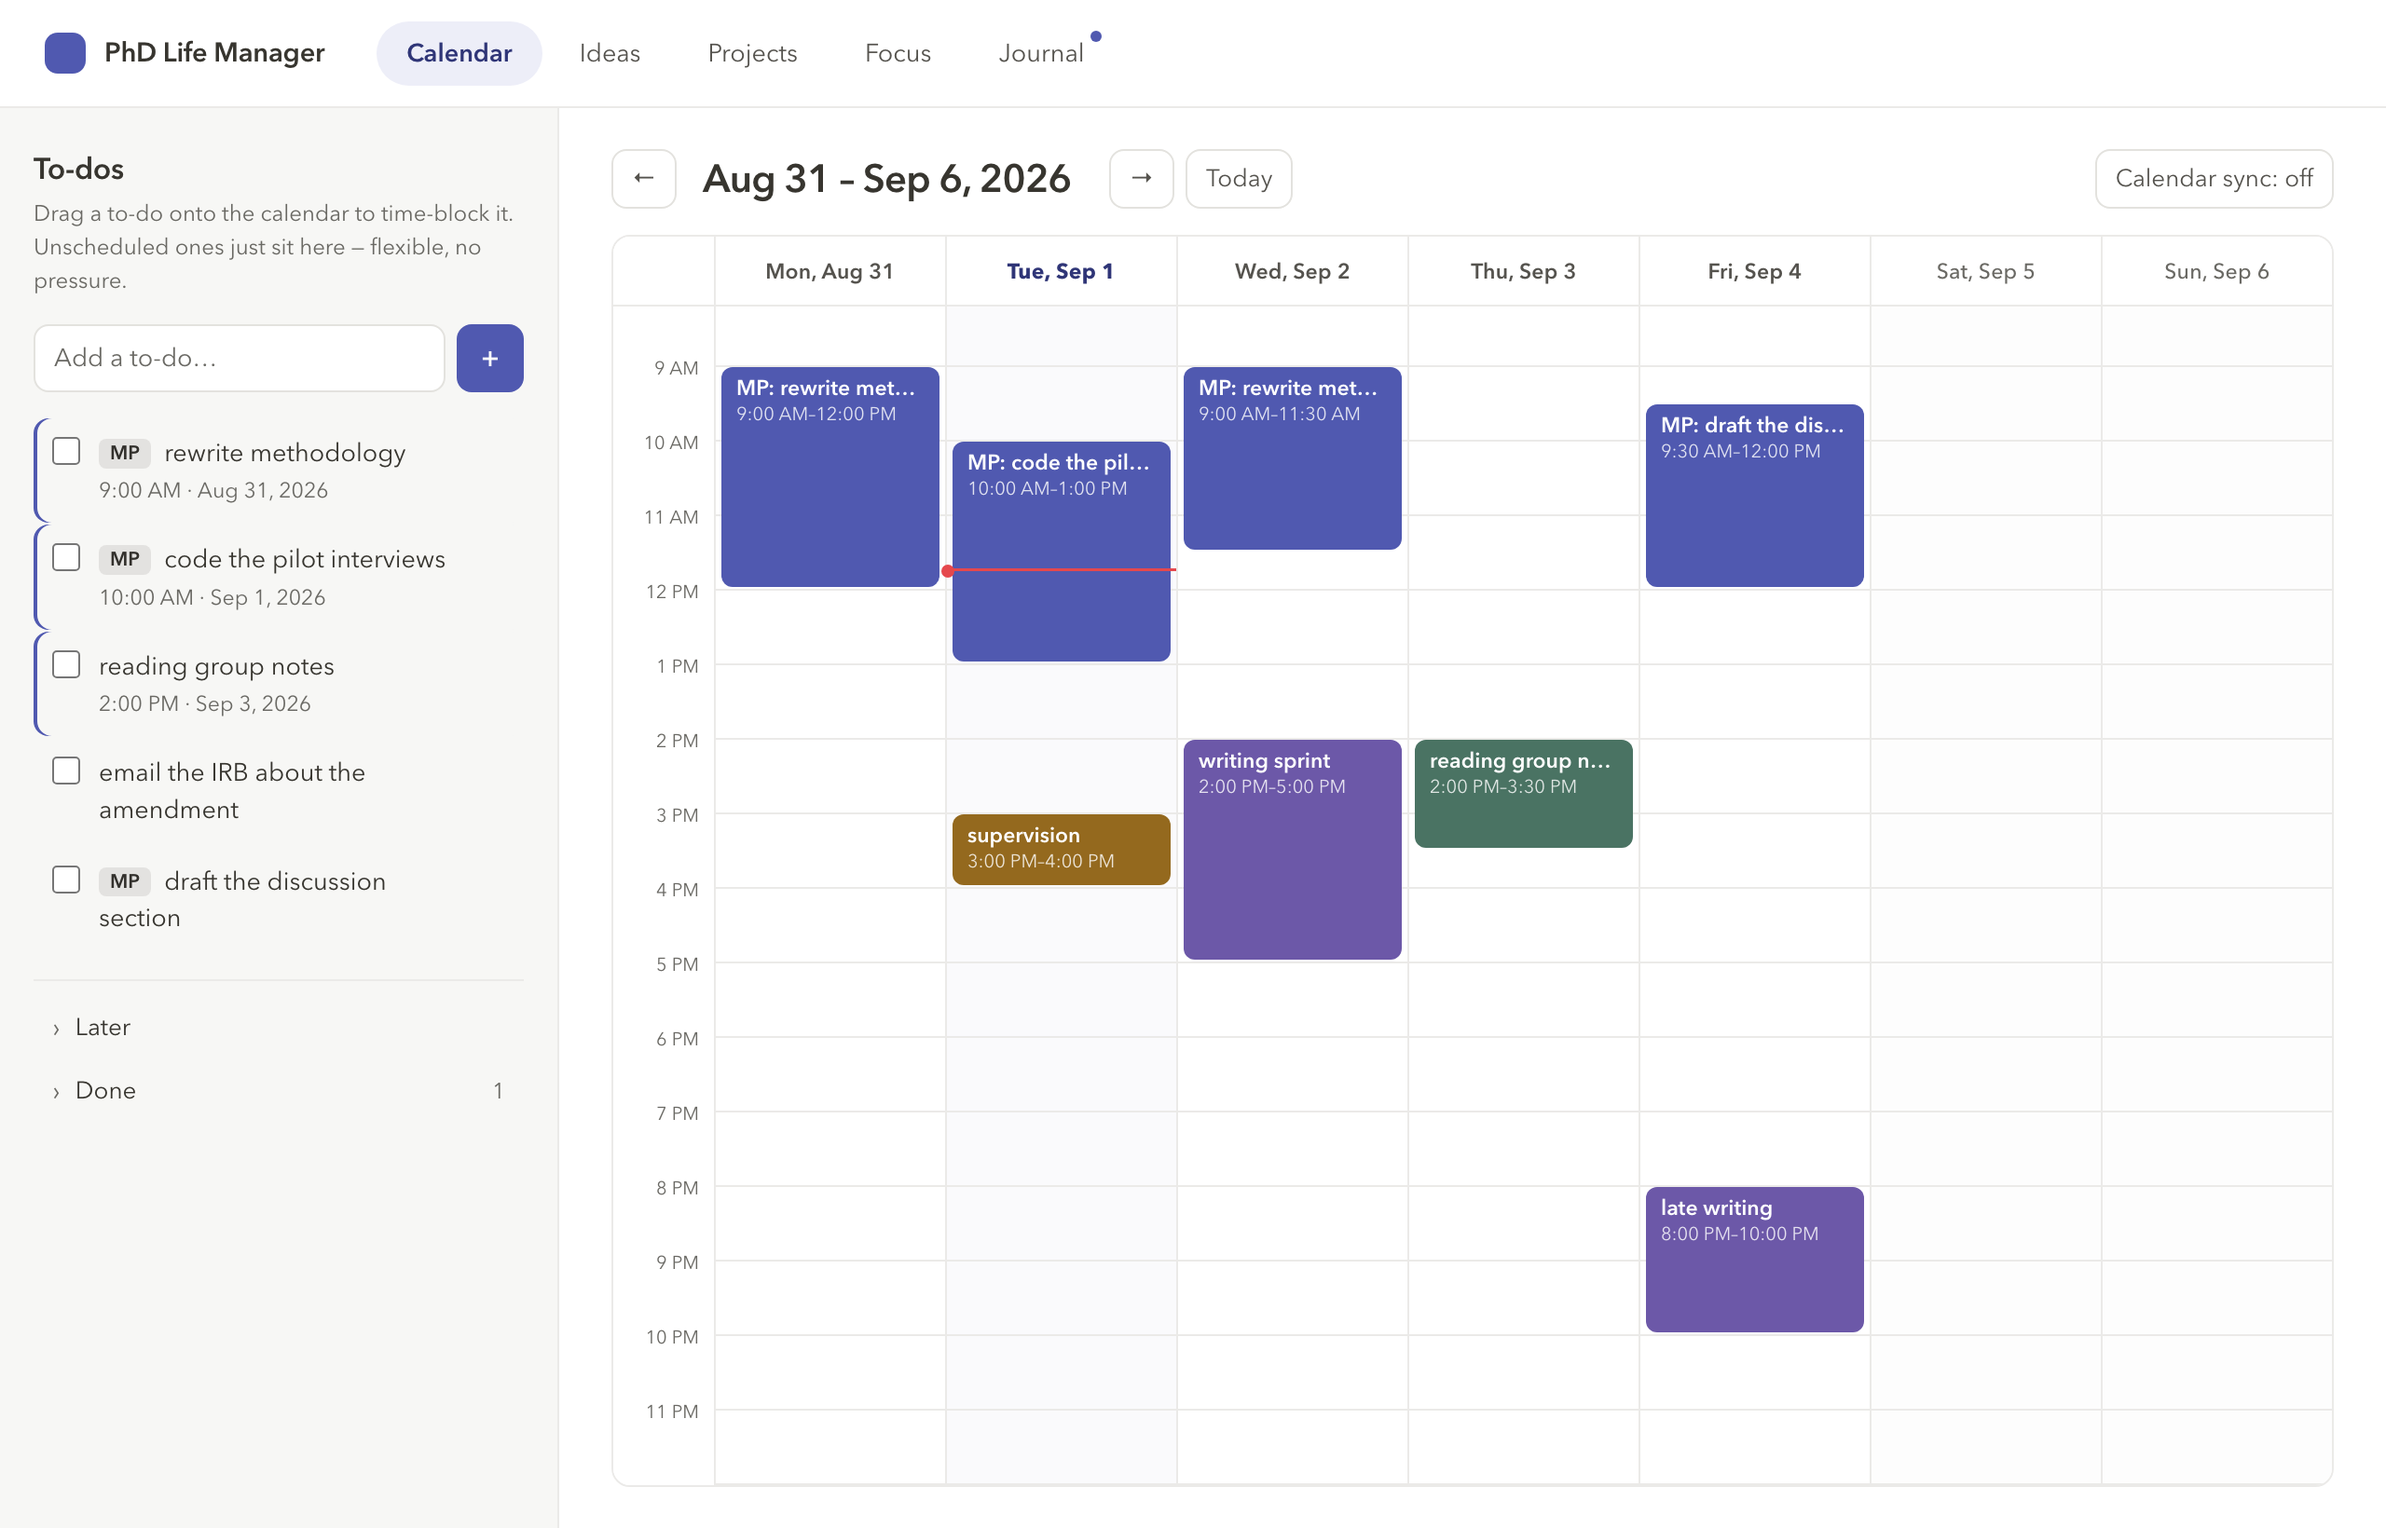
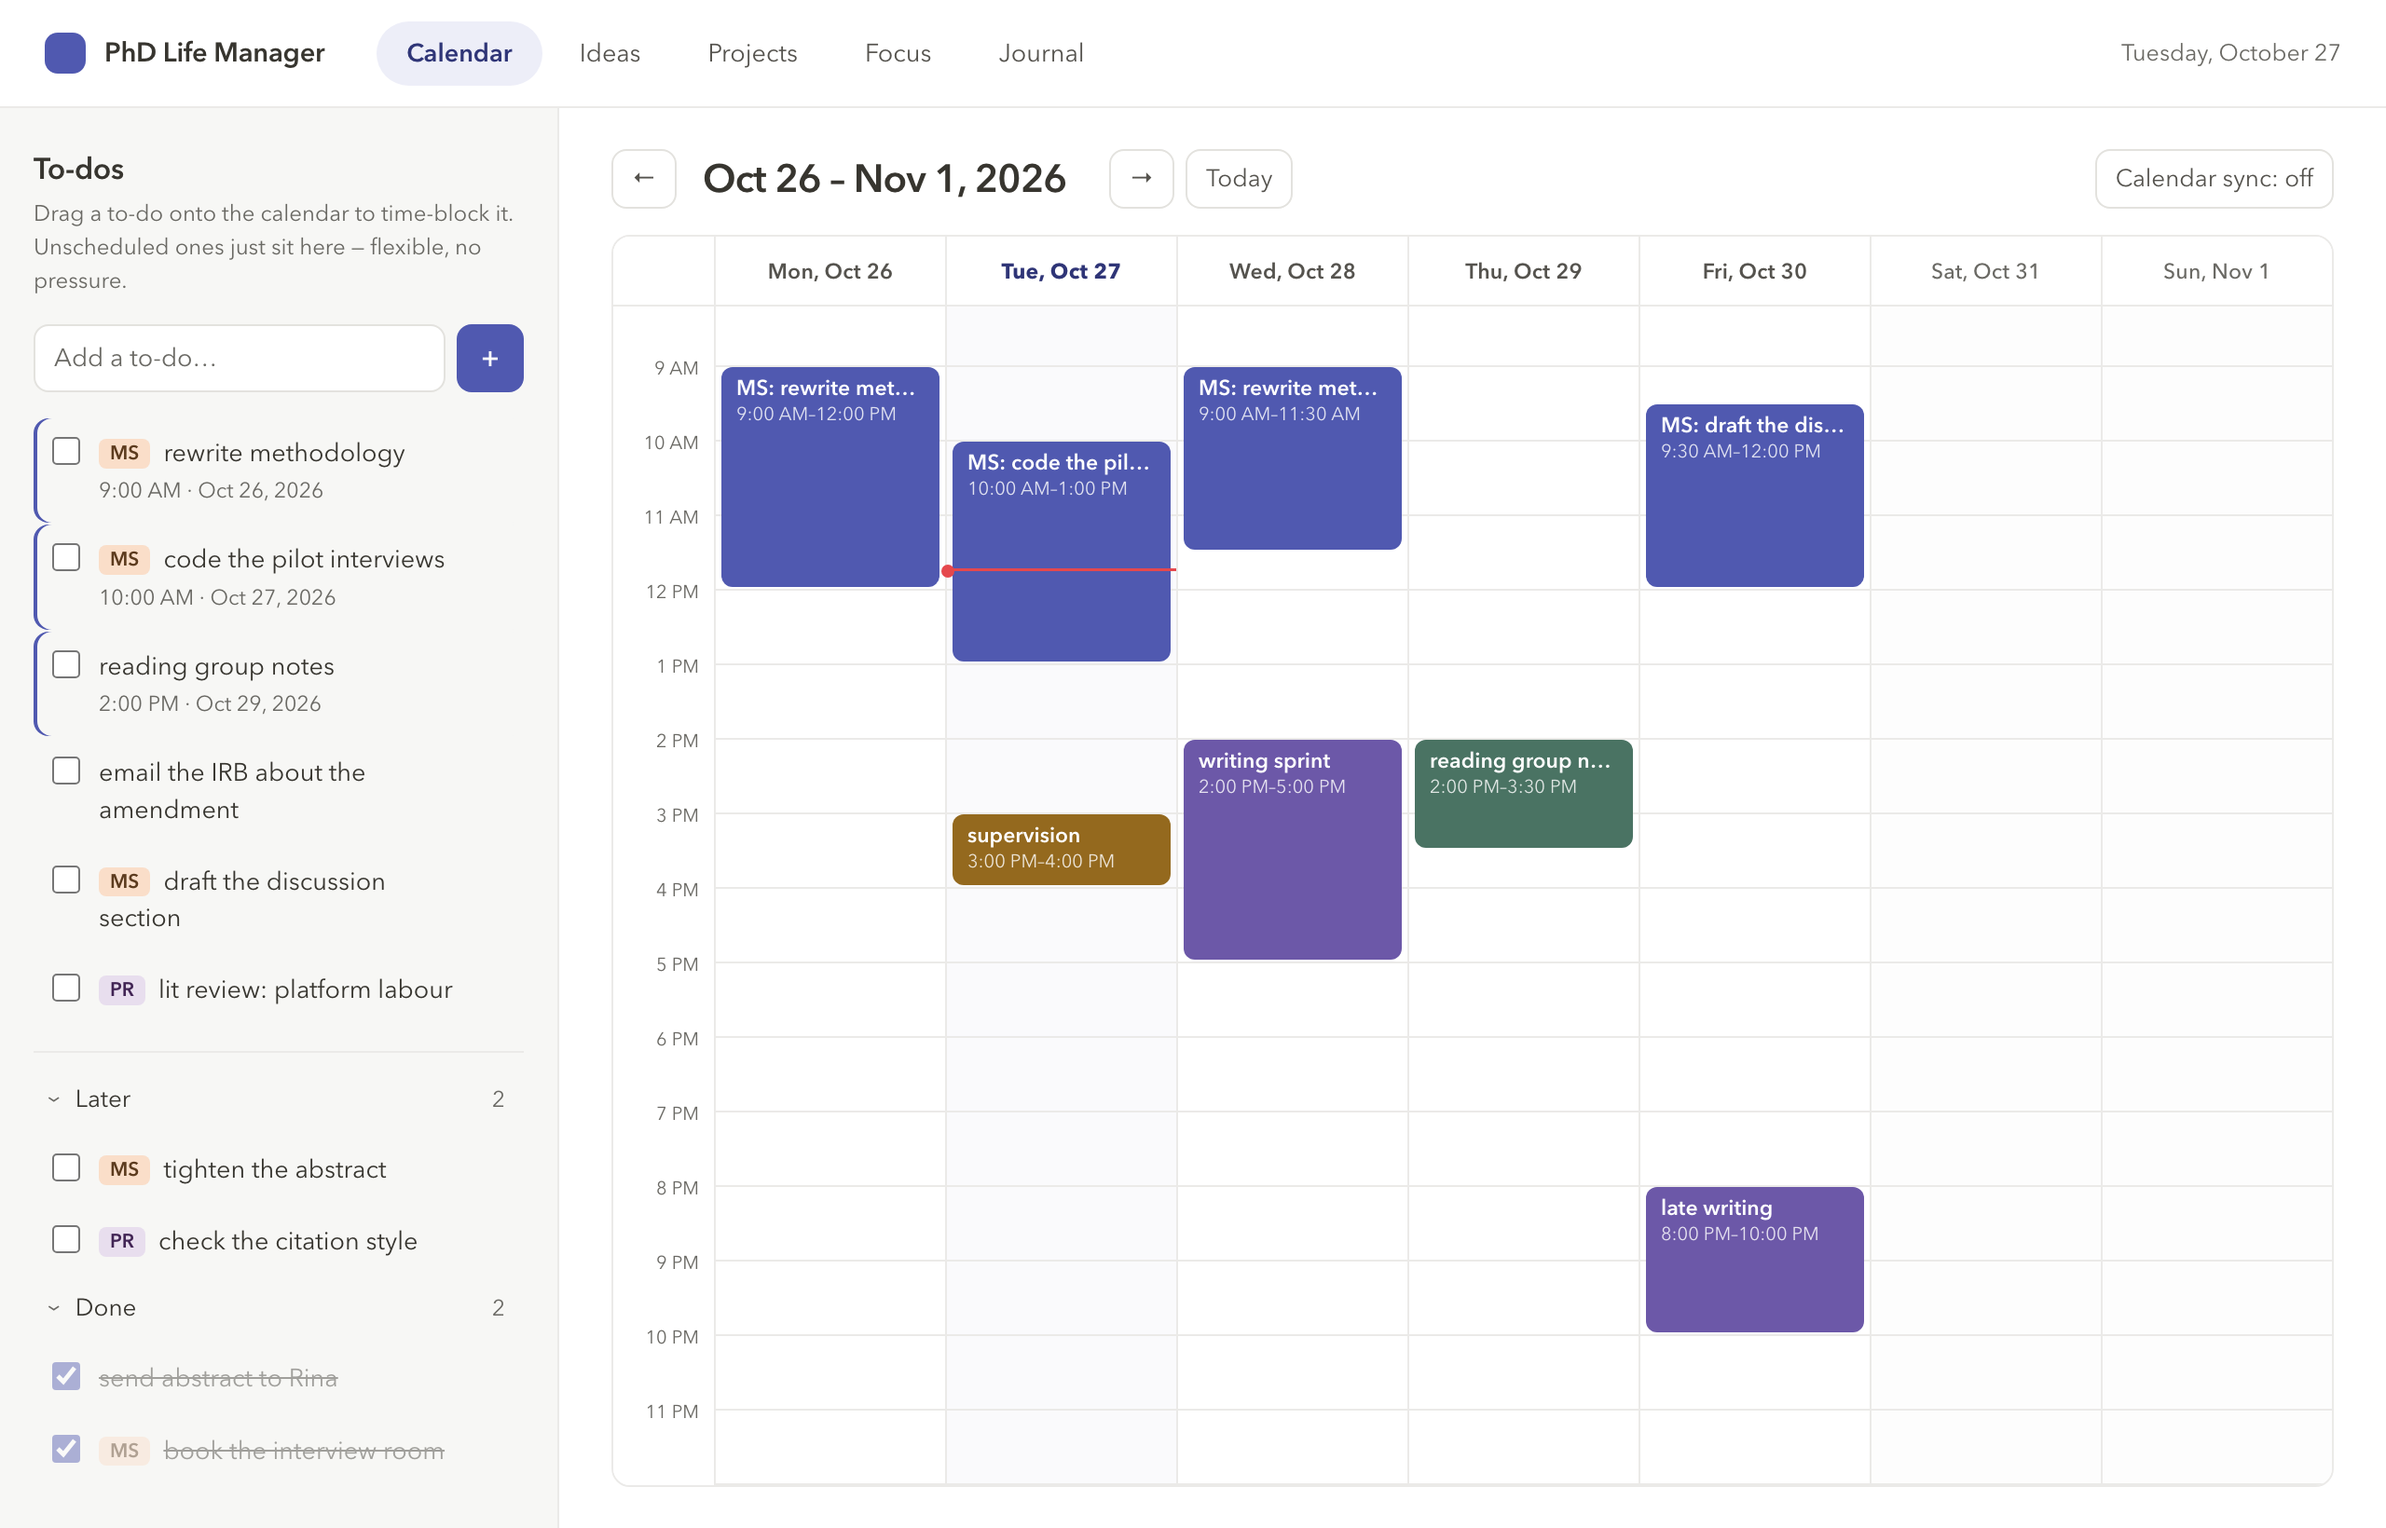
README: a look at every page, two to a row
The calendar stays as the lead picture, now with the Later and Done folds
open. Under it, a two-column grid: the idea board and an idea, a project
and the memo desk, the focus page and a block being edited, the weekly
recap and the four-week compare. All of it is an invented dataset run on a
throwaway copy of the app, so no real data is in any picture.

diff --git a/README.md b/README.md
@@ -11,7 +11,28 @@ framework, no build step. The backend is one Python file using only the
 standard library; the interface is one HTML file, one CSS file and one JS file,
 served straight off disk.
 
-![The calendar](docs/screenshot-calendar.png)
+![The calendar: the week, with to-dos in the pane beside it](docs/screenshot-calendar.png)
+
+<table>
+  <tr>
+    <td width="50%"><img src="docs/screenshot-ideas.png" alt="The idea board"><br><sub><b>Ideas</b> — capture in the pane, filter by tag or star</sub></td>
+    <td width="50%"><img src="docs/screenshot-idea-dialog.png" alt="An idea open"><br><sub><b>An idea</b> — tags, linked ideas, move it into a project</sub></td>
+  </tr>
+  <tr>
+    <td><img src="docs/screenshot-project.png" alt="A project page"><br><sub><b>A project</b> — its to-dos, memos and memo folders</sub></td>
+    <td><img src="docs/screenshot-desk.png" alt="Two memos open side by side"><br><sub><b>The memo desk</b> — several memos open, split in two</sub></td>
+  </tr>
+  <tr>
+    <td><img src="docs/screenshot-focus.png" alt="The focus timer and its summary"><br><sub><b>Focus</b> — the timer, and where the hours went</sub></td>
+    <td><img src="docs/screenshot-block.png" alt="Editing a calendar block"><br><sub><b>A block</b> — times, project and colour</sub></td>
+  </tr>
+  <tr>
+    <td><img src="docs/screenshot-journal.png" alt="The weekly recap"><br><sub><b>Weekly recap</b> — what the week held, and your own ratings</sub></td>
+    <td><img src="docs/screenshot-compare.png" alt="Four weeks compared"><br><sub><b>Compare</b> — the last four weeks side by side</sub></td>
+  </tr>
+</table>
+
+<sub>All screenshots use an invented week, not real data.</sub>
 
 ## What it does
 
